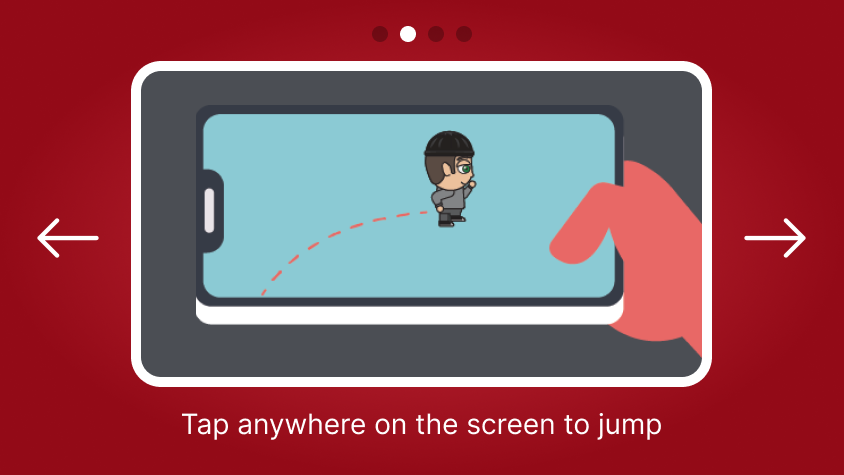
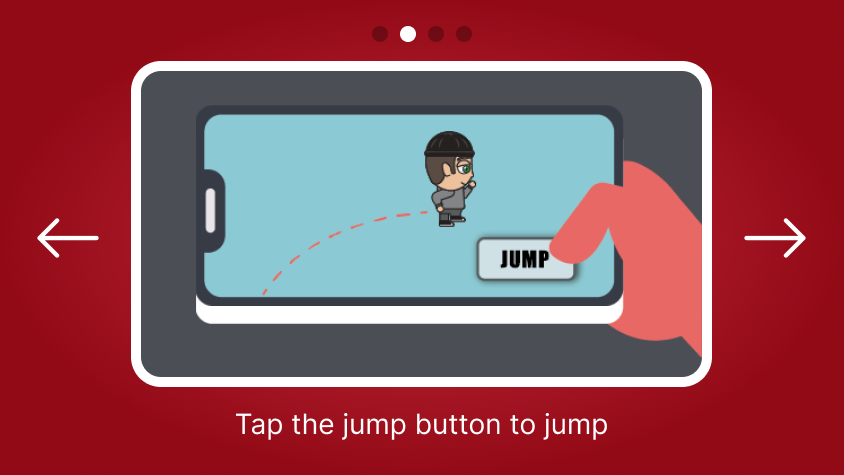
Rollback of jump button (#110)
- Added back the jump button as well
- Added to the tutorial the correct image of the jump button

diff --git a/libs/shared/phaser-singleton/src/lib/utilities/hud-helper.ts b/libs/shared/phaser-singleton/src/lib/utilities/hud-helper.ts
@@ -1,6 +1,7 @@
 /* eslint-disable no-magic-numbers */
 import { Preferences } from '@capacitor/preferences';
 import {
+    BUTTON_JUMP_X,
     BUTTON_LEFT_X,
     BUTTON_RIGHT_X,
     BUTTONS_MOVE_Y,
@@ -10,6 +11,7 @@ import {
     CONTROLS_RIGHT_KEY,
     DOWN_EVENT,
     GameEngineSingleton,
+    JUMP_KEY,
     KEYDOWN_EVENT,
     KEYUP_EVENT,
     LEFT_KEY,
@@ -23,7 +25,6 @@ import {
     RIGHT_KEY,
     RIGHT_KEYBOARD,
     UP_EVENT,
-    ZoneType,
 } from '@openforge/shared/data-access-model';
 import { Scene } from 'phaser';
 import * as Phaser from 'phaser';
@@ -91,10 +92,6 @@ export async function createButtons(scene: Scene, spaceBarKey: Phaser.Input.Keyb
  */
 export function createMovementButtons(scene: WorldScene, character: Character, spaceBarKey: Phaser.Input.Keyboard.Key, keyboard: Phaser.Input.Keyboard.KeyboardPlugin): void {
     console.log('world.scene.ts', 'buttons');
-    const zoneWidth = (CONFIG.DEFAULT_WIDTH * 20) / 100;
-    const zoneHeight = 200;
-    const zoneJumpX = CONFIG.DEFAULT_WIDTH - zoneWidth * 0.5;
-    const zoneY = CONFIG.DEFAULT_HEIGHT - zoneHeight * 0.3;
     const buttonLeft = scene.add.sprite(BUTTON_LEFT_X, CONFIG.DEFAULT_HEIGHT - BUTTONS_MOVE_Y, CONTROLS_KEY, LEFT_KEY);
     buttonLeft.setScale(CONFIG.DEFAULT_CONTROL_SCALE);
     buttonLeft.setInteractive();
@@ -161,35 +158,16 @@ export function createMovementButtons(scene: WorldScene, character: Character, s
         },
         scene
     );
-    const zoneJump = scene.add.zone(zoneJumpX, zoneY, zoneWidth, zoneHeight);
-    zoneJump.setInteractive();
-    zoneJump.on('pointerdown', () => zoneClicked(ZoneType.JUMP, true, scene));
-    zoneJump.on('pointerup', () => zoneClicked(ZoneType.JUMP, false, scene));
+    const buttonJump = scene.add.sprite(CONFIG.DEFAULT_WIDTH - BUTTON_JUMP_X, CONFIG.DEFAULT_HEIGHT - BUTTONS_MOVE_Y, JUMP_KEY);
+    buttonJump.setScale(CONFIG.DEFAULT_CONTROL_SCALE);
+    buttonJump.setInteractive();
+    buttonJump.setDepth(3);
+    buttonJump.on(POINTER_DOWN_EVENT, () => doJumpMovement(scene, character), scene);
+    buttonJump.on(POINTER_UP_EVENT, () => (character.isJumping = false), scene);
     spaceBarKey.on(DOWN_EVENT, () => (character.isJumping = true), scene);
     spaceBarKey.on(UP_EVENT, () => (character.isJumping = false), scene);
 }
-/**
- * * Function that handle touch zone actions
- *
- * @param zoneType as ZoneType
- * @param action as the action to set
- * @param scene as WorldScene
- */
-async function zoneClicked(zoneType: ZoneType, action: boolean, scene: WorldScene): Promise<void> {
-    const audioPreference = (await Preferences.get({ key: 'EFFECTS_ON' })).value;
-    switch (zoneType) {
-        case ZoneType.JUMP:
-            scene.character.isJumping = action;
-            // * We set a timeout to prevent the character to keep jumping when user slides the controls
-            setTimeout(() => {
-                scene.character.isJumping = false;
-            }, 500);
-            if (audioPreference === 'true' && action) {
-                GameEngineSingleton.audioService.playJump(scene);
-            }
-            break;
-    }
-}
+
 export async function doJumpMovement(scene: Scene, character: Character): Promise<void> {
     const audioPreference = (await Preferences.get({ key: 'EFFECTS_ON' })).value;
     if (scene) {
